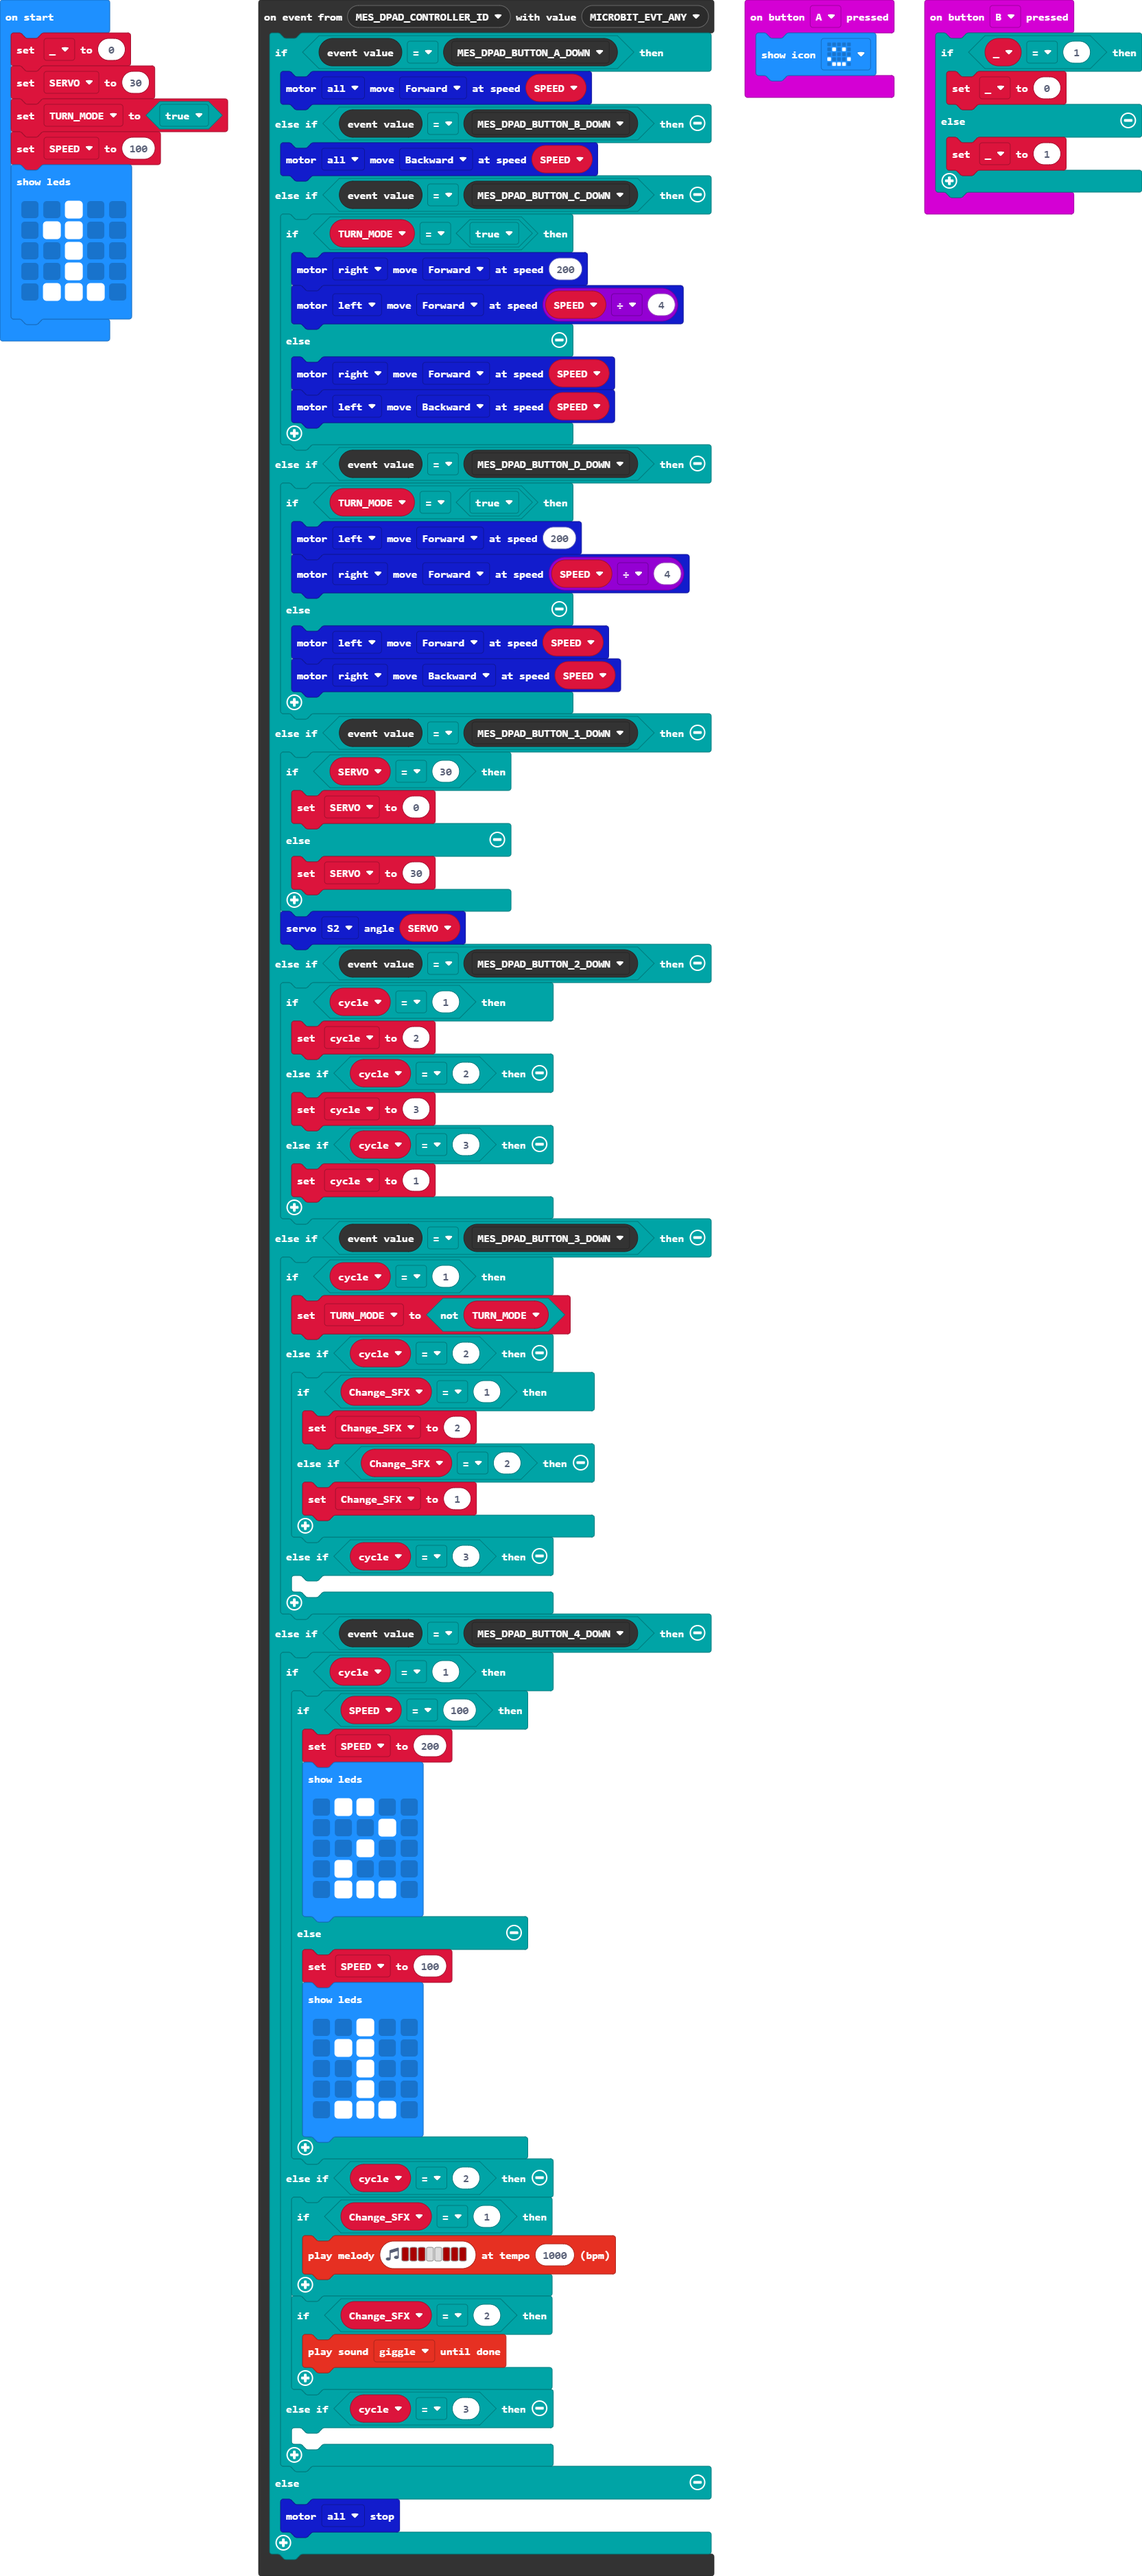
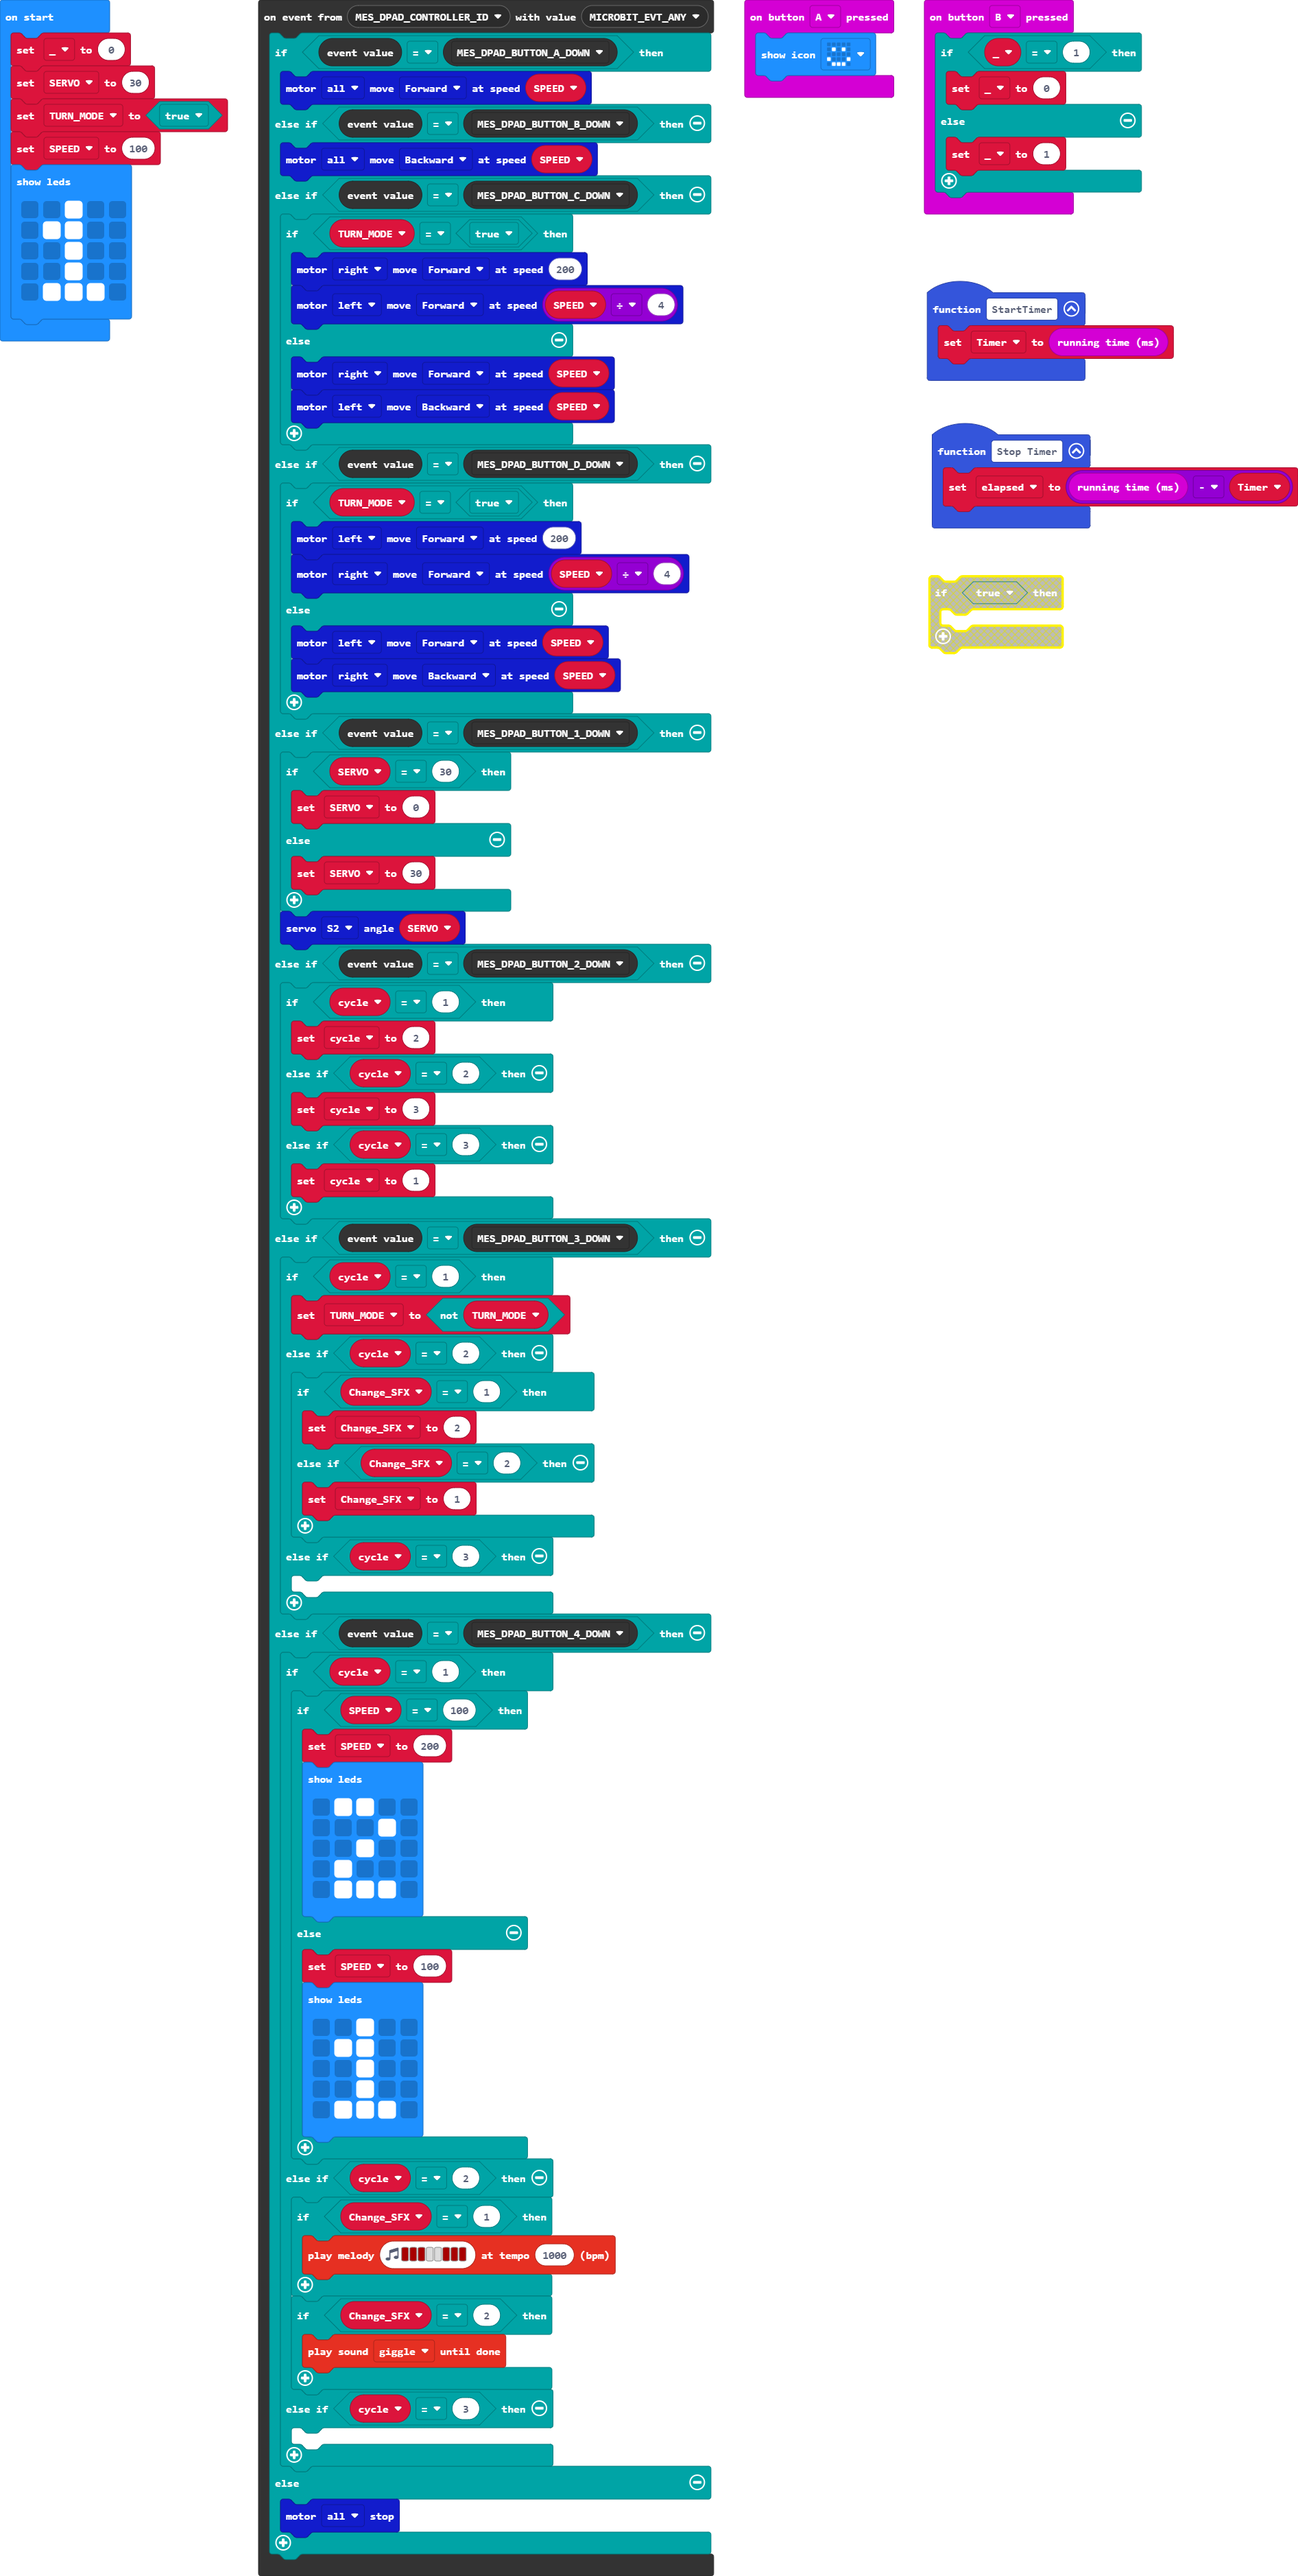
Update main.blocks, main.ts

Changed region(s): [[0.0, 0.0, 1.0, 1.0], [0.5309, 0.935, 0.6246, 1.0]]

diff --git a/main.ts b/main.ts
@@ -1,6 +1,9 @@
 input.onButtonPressed(Button.A, function () {
     basic.showIcon(IconNames.Happy)
 })
+function Stop_Timer () {
+    elapsed = input.runningTime() - Timer
+}
 input.onButtonPressed(Button.B, function () {
     if (_ == 1) {
         _ = 0
@@ -91,8 +94,13 @@ control.onEvent(EventBusSource.MES_DPAD_CONTROLLER_ID, EventBusValue.MICROBIT_EV
         maqueen.motorStop(maqueen.Motors.All)
     }
 })
+function StartTimer () {
+    Timer = input.runningTime()
+}
 let Change_SFX = 0
 let cycle = 0
+let Timer = 0
+let elapsed = 0
 let SPEED = 0
 let TURN_MODE = false
 let SERVO = 0
